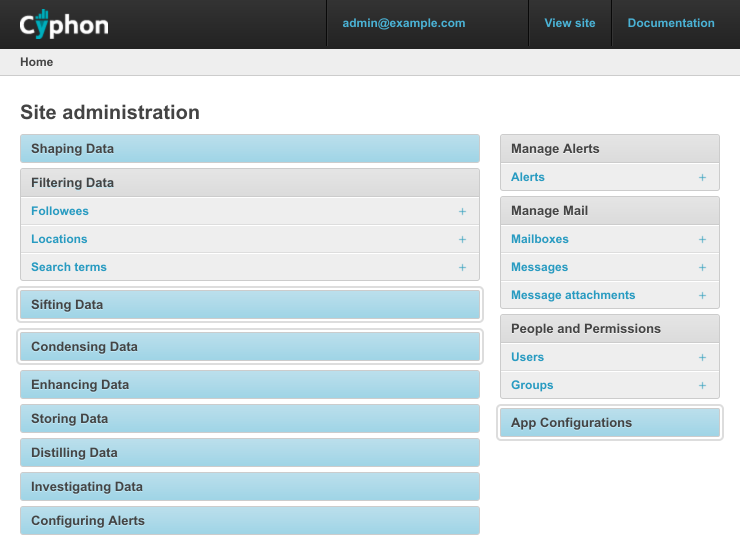
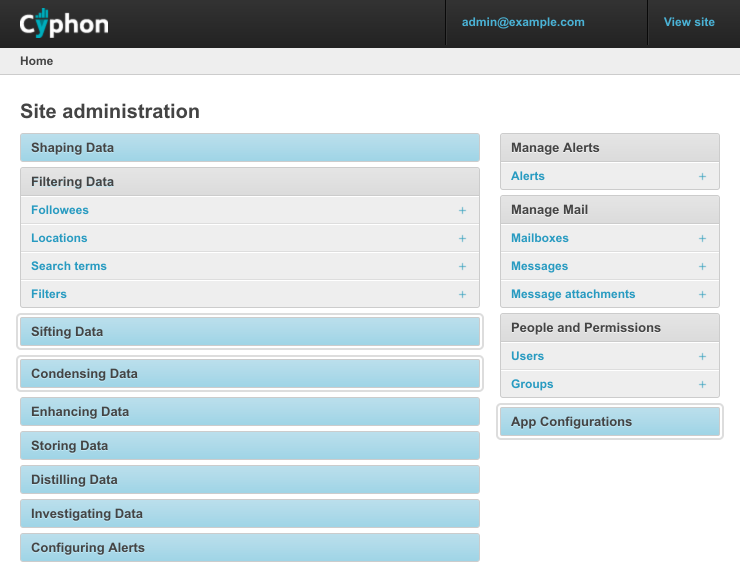
add Filters to dashboard and update docs

diff --git a/cyphon/cyphon/dashboard.py b/cyphon/cyphon/dashboard.py
@@ -57,6 +57,7 @@ class CyphonIndexDashboard(Dashboard):
                 'target.followees.models.Followee',
                 'target.locations.models.Location',
                 'target.searchterms.models.SearchTerm',
+                'aggregator.filters.models.Filter',
             ),
         ))
 
